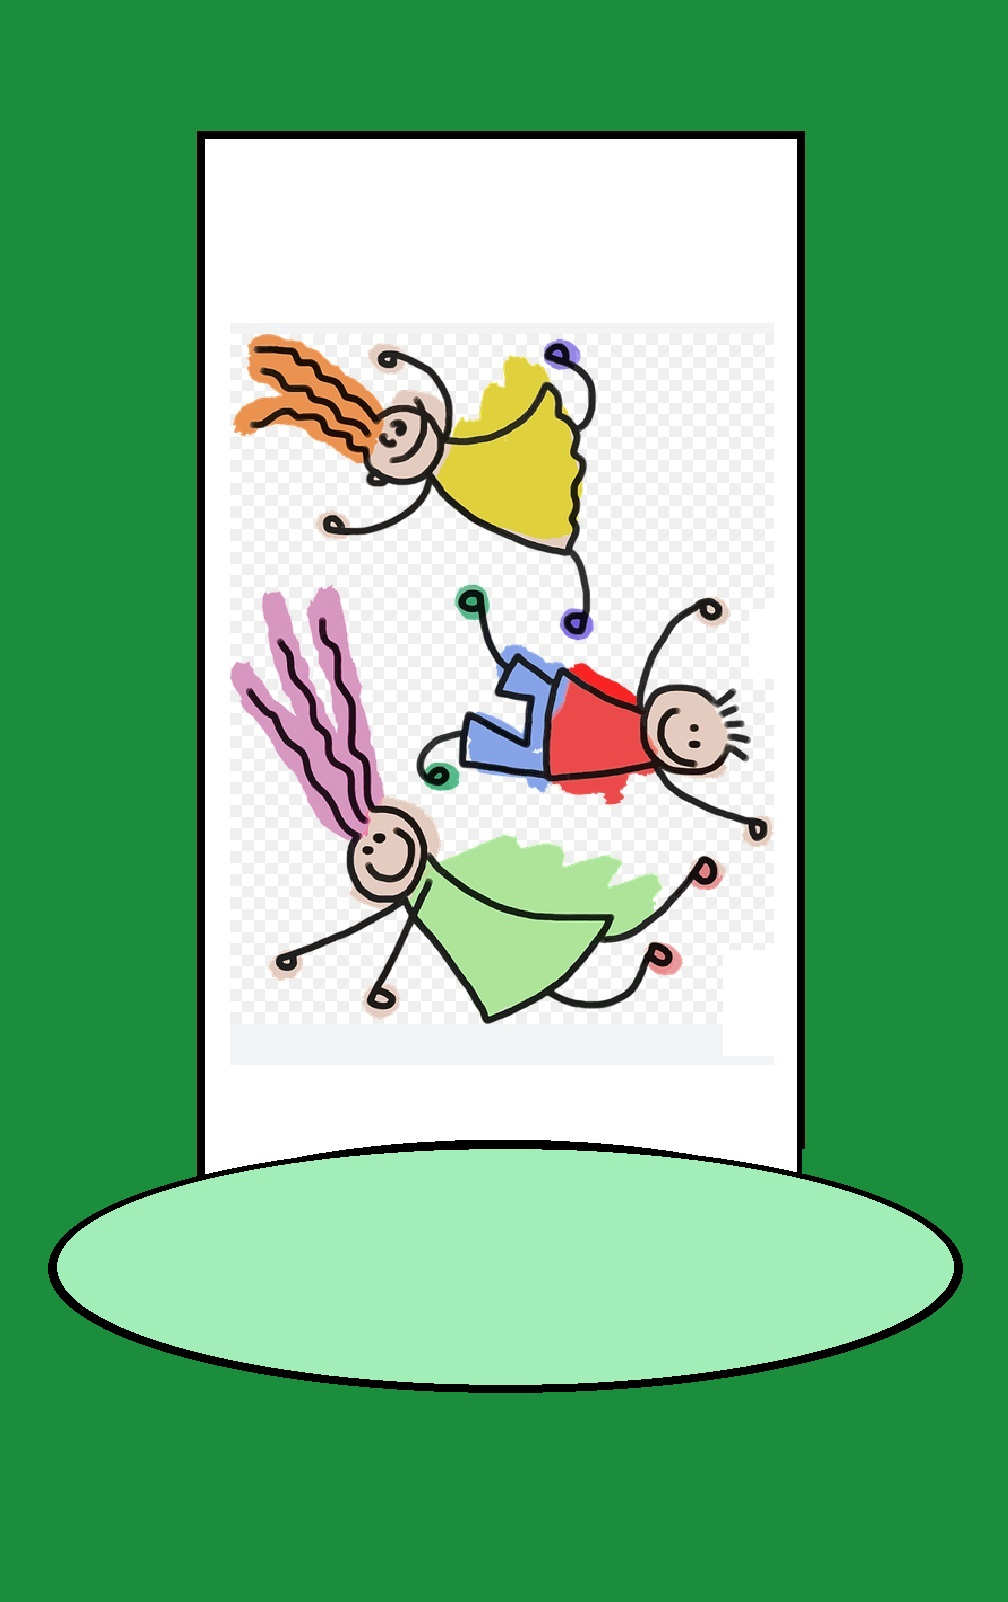
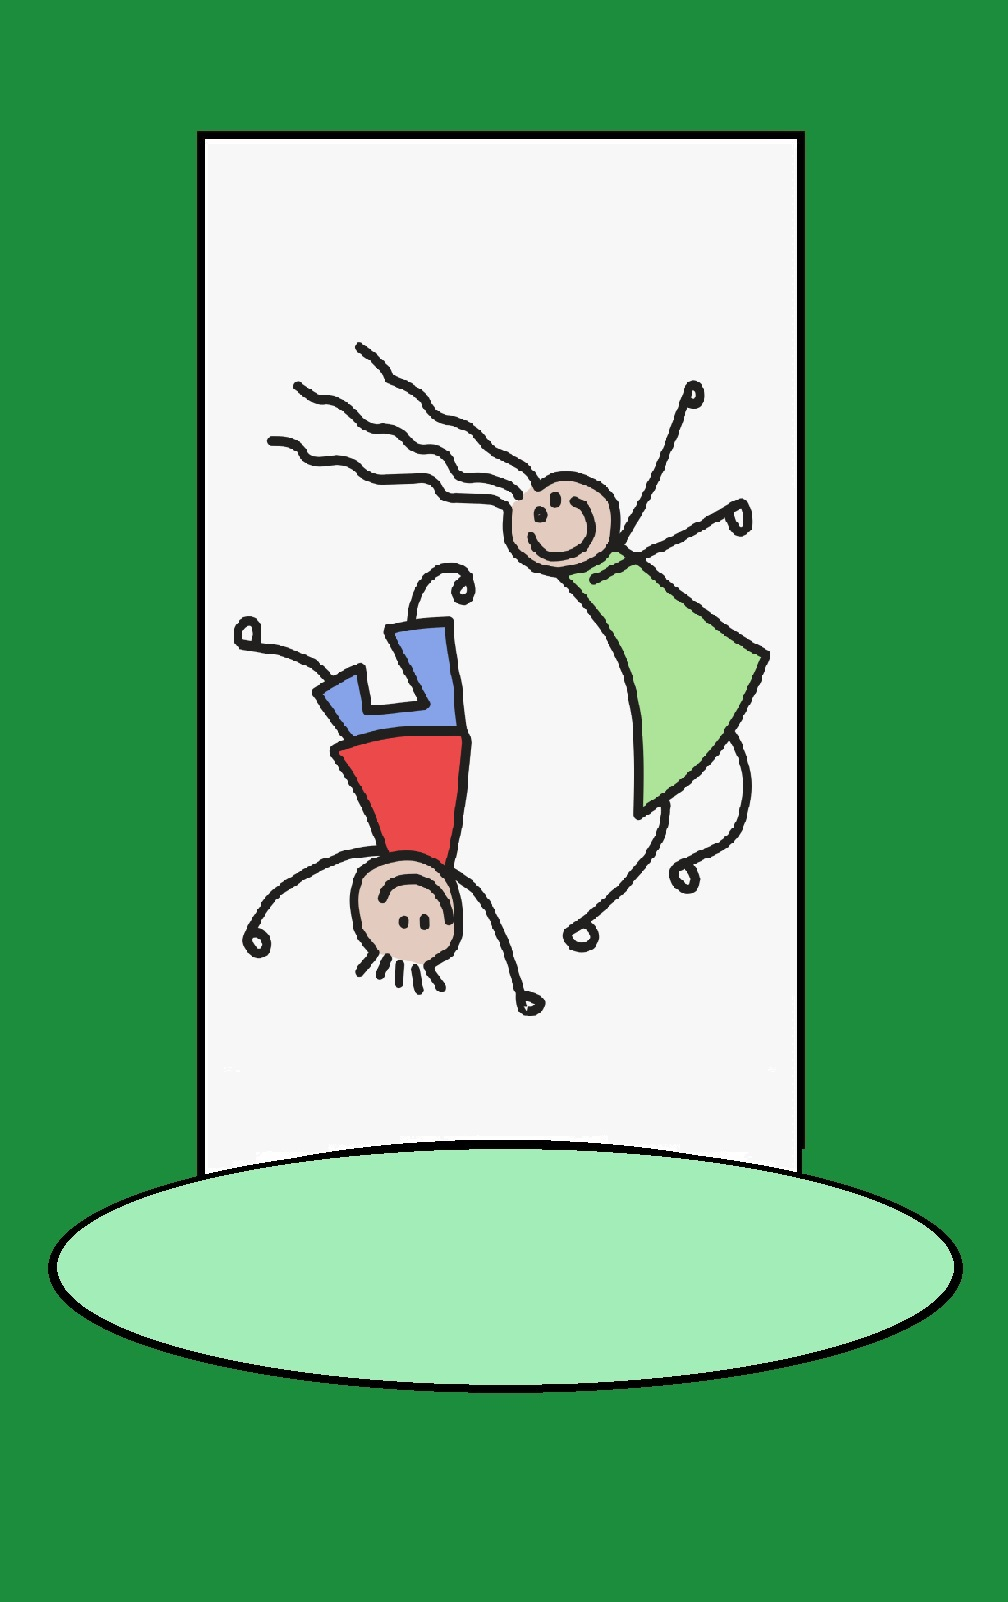
Var að vinna aftur með spilin

Changed region(s): [[0.2153, 0.1873, 0.7688, 0.6554], [0.246, 0.5618, 0.3075, 0.6242]]

diff --git a/src/main/resources/hi/is/vidmot/veganifel/main.css b/src/main/resources/hi/is/vidmot/veganifel/main.css
@@ -39,7 +39,7 @@
     -fx-background-size: contain;
     -fx-background-position: center;
 }
-#Raudur{
+#Gaen{
 -fx-background-image: url('../Myndir/Krakkar.jpg');
     -fx-background-size: contain;
     -fx-background-position: center;
